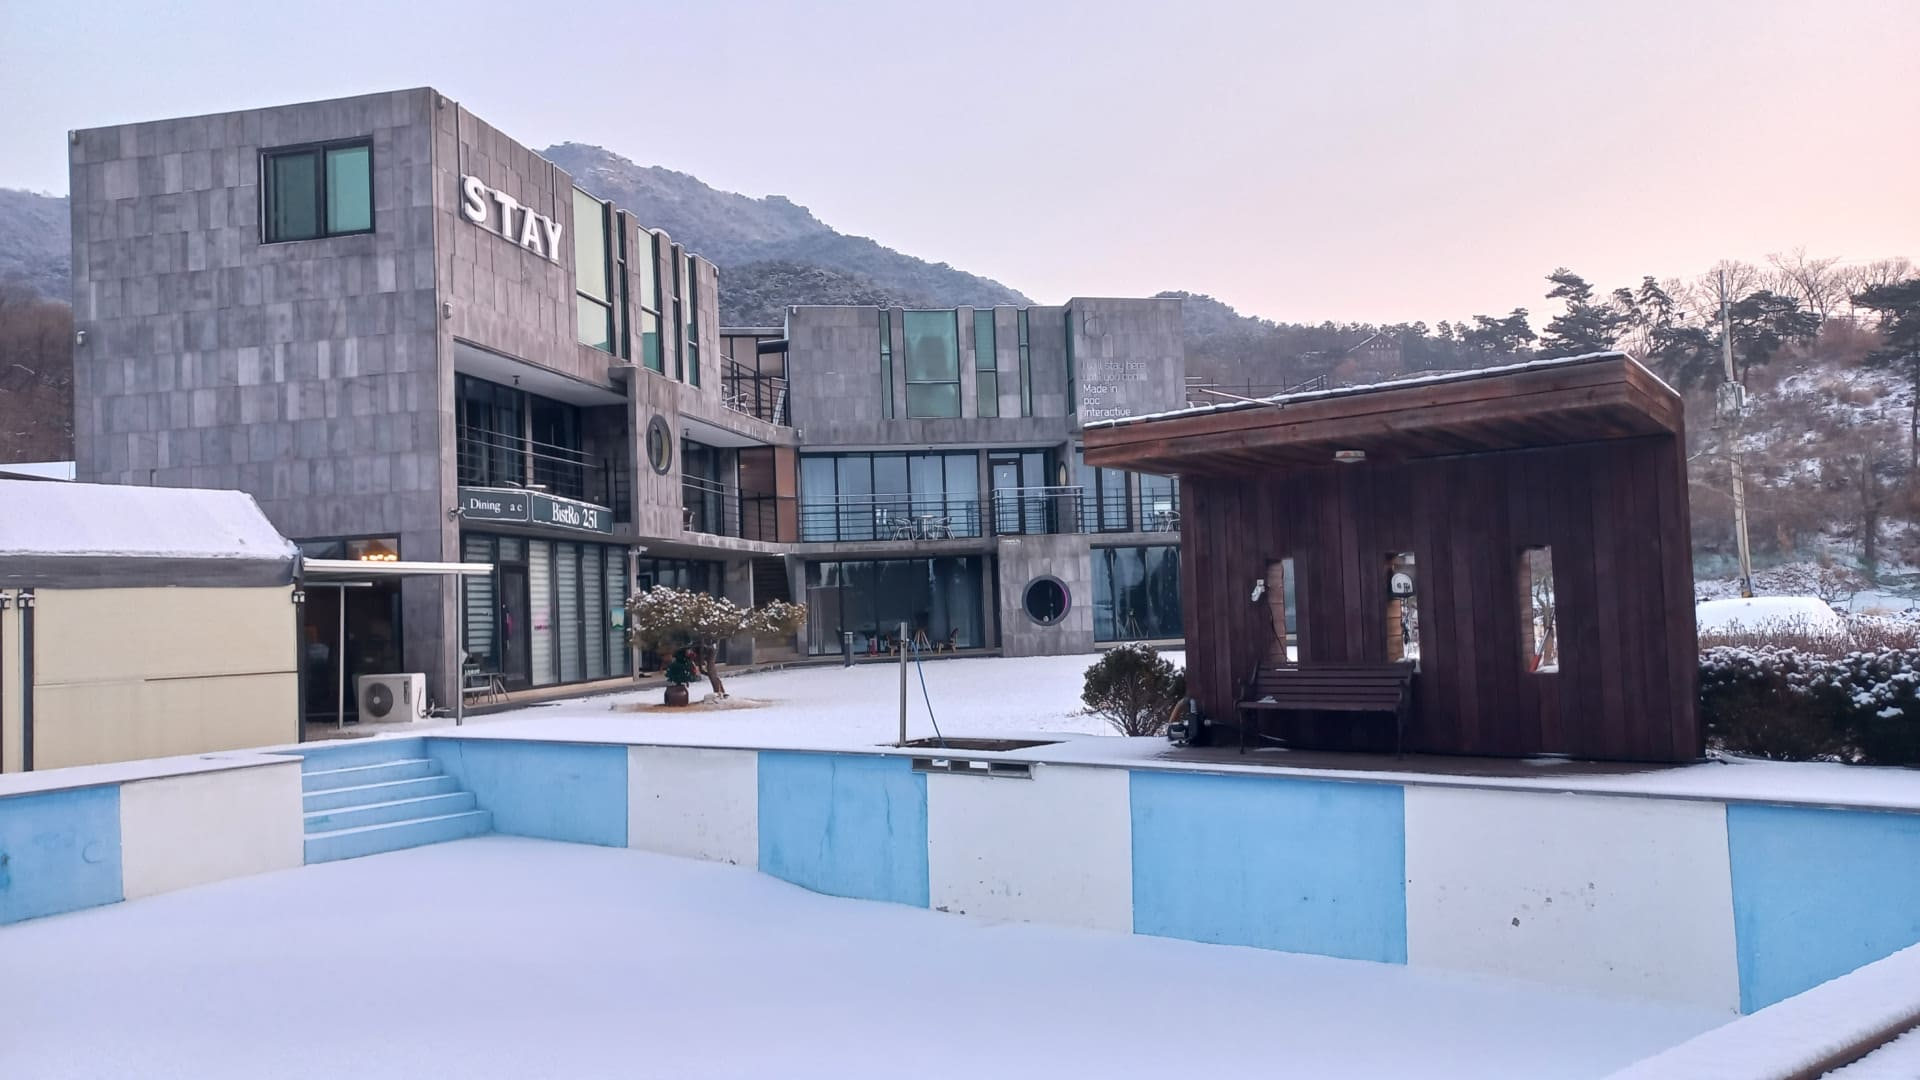
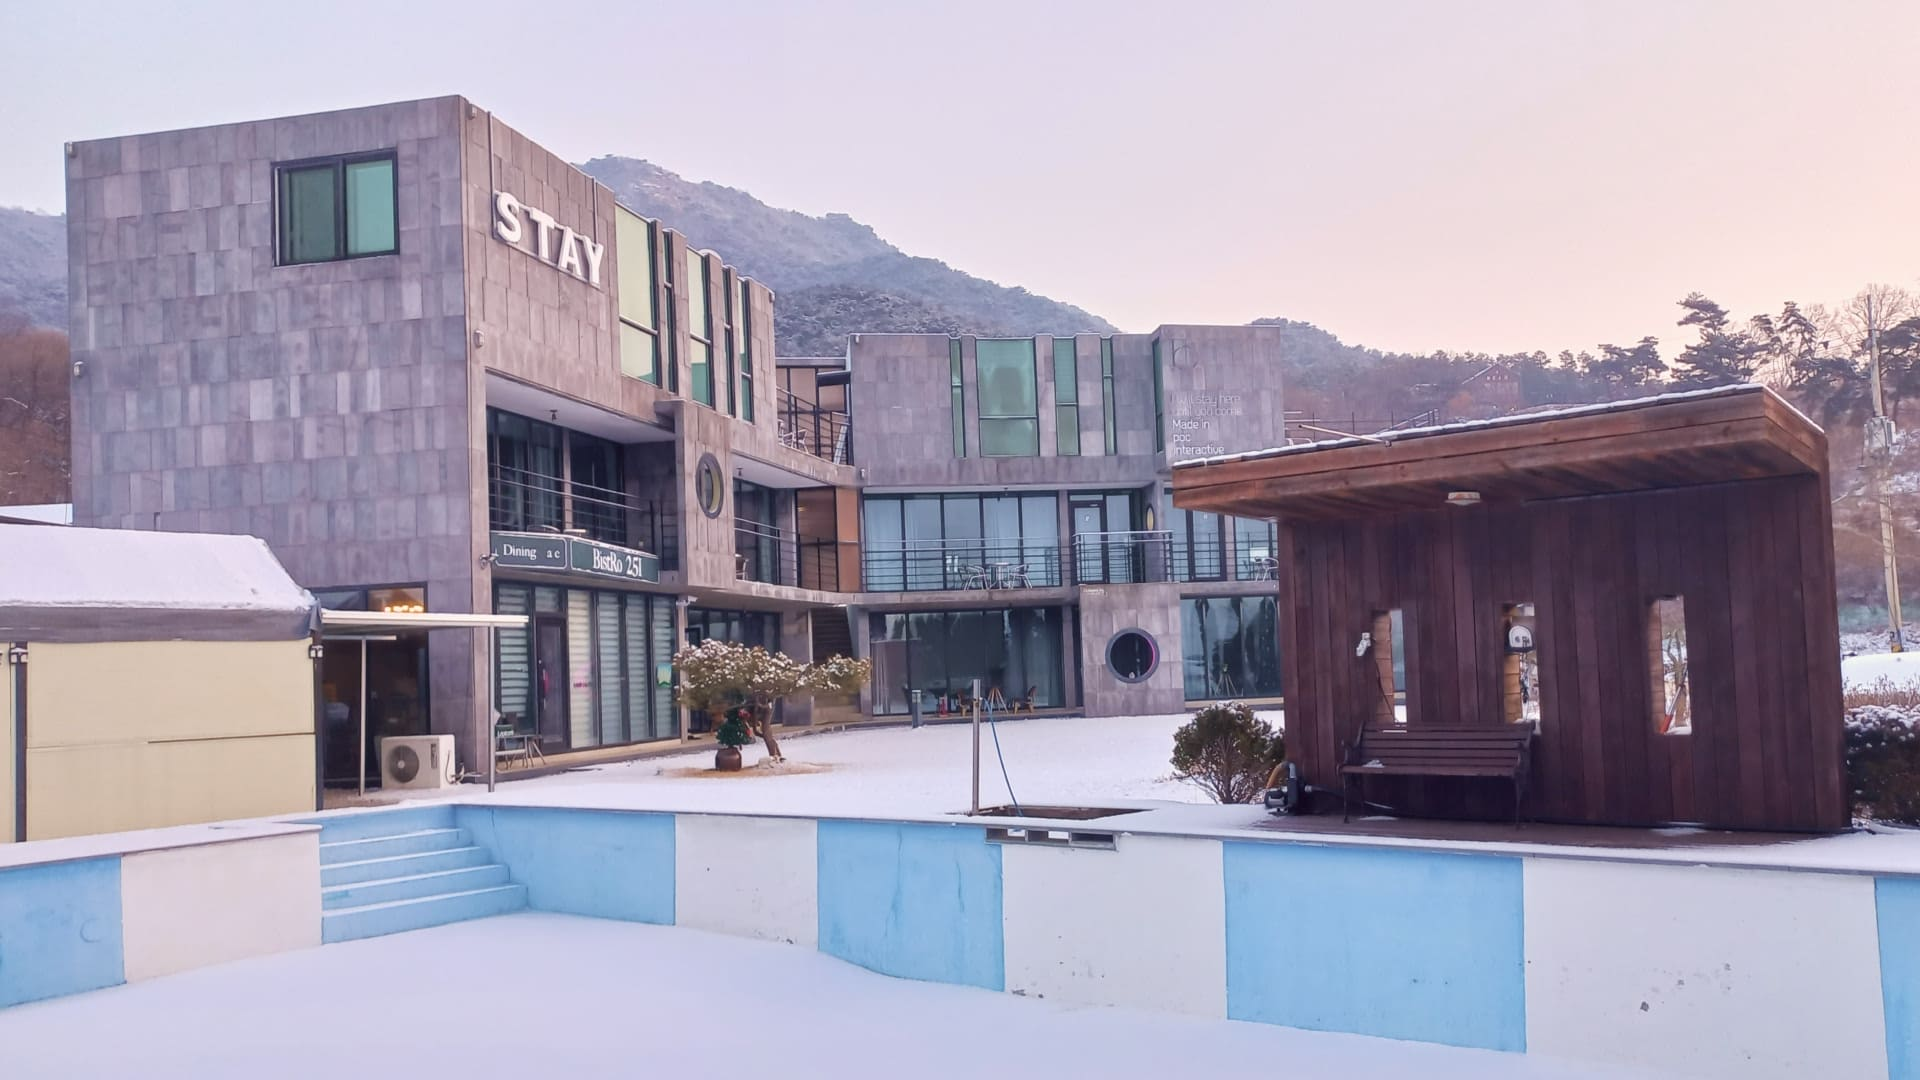
style: 🎨 이미지 업데이트

diff --git a/stayandante/pages/01_home/M_STAY_01.html b/stayandante/pages/01_home/M_STAY_01.html
@@ -1,25 +1,46 @@
 <div class="swiper">
     <div class="swiper-wrapper">
         <div class="swiper-slide">
-            <img src="/images/home/hero_main_01.jpg" alt="" />
+            <picture>
+                <source srcset="/images/home/hero_main_01_mo.jpg" media="(max-width: 767px)">
+                <img src="/images/home/hero_main_01.jpg" alt="">
+            </picture>
         </div>
         <div class="swiper-slide">
-            <img src="/images/home/hero_main_02.jpg" alt="" />
+            <picture>
+                <source srcset="/images/home/hero_main_02_mo.jpg" media="(max-width: 767px)">
+                <img src="/images/home/hero_main_02.jpg" alt="">
+            </picture>
         </div>
         <div class="swiper-slide">
-            <img src="/images/home/hero_main_03.jpg" alt="" />
+            <picture>
+                <source srcset="/images/home/hero_main_03_mo.jpg" media="(max-width: 767px)">
+                <img src="/images/home/hero_main_03.jpg" alt="">
+            </picture>
         </div>
         <div class="swiper-slide">
-            <img src="/images/home/hero_main_04.jpg" alt="" />
+            <picture>
+                <source srcset="/images/home/hero_main_04_mo.jpg" media="(max-width: 767px)">
+                <img src="/images/home/hero_main_04.jpg" alt="">
+            </picture>
         </div>
         <div class="swiper-slide">
-            <img src="/images/home/hero_main_05.jpg" alt="" />
+            <picture>
+                <source srcset="/images/home/hero_main_05_mo.jpg" media="(max-width: 767px)">
+                <img src="/images/home/hero_main_05.jpg" alt="">
+            </picture>
         </div>
         <div class="swiper-slide">
-            <img src="/images/home/hero_main_06.jpg" alt="" />
+            <picture>
+                <source srcset="/images/home/hero_main_06_mo.jpg" media="(max-width: 767px)">
+                <img src="/images/home/hero_main_06.jpg" alt="">
+            </picture>
         </div>
         <div class="swiper-slide">
-            <img src="/images/home/hero_main_07.jpg" alt="" />
+            <picture>
+                <source srcset="/images/home/hero_main_07_mo.jpg" media="(max-width: 767px)">
+                <img src="/images/home/hero_main_07.jpg" alt="">
+            </picture>
         </div>
     </div>
     <div class="tit-wrap dep-1">
@@ -106,7 +127,7 @@
                     <img src="/images/room/card_roomH_01.jpg" alt="" />
                 </div>
                 <h3 class="fs-16 mt-12 mb-8">라르고 <span class="fs-14 txt-700">Largo</span></h3>
-                <p class="fs-14 txt-700">기준 4인 · 최대 10인 | 3층</p>
+                <p class="fs-14 txt-700">기준 4인 · 최대 H 10인, I 8인 | 3층</p>
             </a>
         </div>
         <div class="btn-wrap jc-c">
@@ -168,7 +189,7 @@
             </li>
         </ul>
         <div class="btn-wrap jc-c">
-            <a href="/index.html?linkcd=m0501" class="btn md line txt-white">
+            <a href="/index.html?linkcd=m0501" class="btn md line">
                 소식 더보기
                 <svg class="wh-20">
                     <use href="#dir-chevron-right"></use>

diff --git a/stayandante/css/common.css b/stayandante/css/common.css
@@ -56,6 +56,8 @@ header .gnb .menu-toggle.is-active i:nth-child(4) { width: 0; margin-top: 0; }
 .wrap .lnb,
 .wrap .cont-wrap section,
 footer { padding-left: calc(50vw - 68.2rem); padding-right: calc(50vw - 68.2rem); } 
+.env-pc footer .link[href^="tel:"] { display: block; color: inherit; }
+.env-pc footer .link[href^="tel:"]::after { content: unset; }
 .wrap .tit-wrap.dep-1 { padding-left: calc(50vw - 64rem); padding-right: calc(50vw - 64rem); } 
 
 .wrap main { min-height: 50rem; } 
@@ -88,8 +90,8 @@ footer .footer-inner .btn-wrap { position: absolute; right: 0; top: -5.6rem; }
 /* ==================== 홈 ==================== */
 /* 홈 > 스와이퍼 */
 .wrap main.home .swiper { position: relative; } 
-.wrap main.home .swiper::before { content: ""; display: block; width: 100%; height: 24rem; position: absolute; left: 0; bottom: 0; background: linear-gradient( to bottom, transparent, rgb(var(--bg-100)) 70%, rgb(var(--bg-100)) ); z-index: 2; } 
-.wrap main.home .swiper-wrapper { min-height: 36rem; height: 70vh; } 
+.wrap main.home .swiper::before { content: ""; display: block; width: 100%; height: 18rem; position: absolute; left: 0; bottom: 0; background: linear-gradient( to bottom, transparent, rgb(var(--bg-100)) 50%, rgb(var(--bg-100)) ); z-index: 2; } 
+.wrap main.home .swiper-wrapper { min-height: 36rem; aspect-ratio: 16/9; max-height: 85vh; } 
 .wrap main.home .swiper .swiper-wrapper .swiper-slide { position: relative; overflow: hidden; } 
 .wrap main.home .swiper .swiper-wrapper .swiper-slide img { position: absolute; inset: 0; width: 100%; height: 100%; object-fit: cover; transition: transform 6s ease-in-out 1.5s; pointer-events: none; will-change: transform; backface-visibility: hidden; } 
 .wrap main.home .swiper .swiper-wrapper .swiper-slide.swiper-slide-active img { transform: scale(1.1); } 
@@ -215,6 +217,7 @@ footer { padding-left: 2rem; padding-right: 2rem; }
 .wrap .lnb ul li a { padding: 0; font-size: 1.4rem; } 
 .info-wrap { flex-direction: column; } 
 /* 홈 */
+.wrap main.home .swiper-wrapper { aspect-ratio: 4/5; } 
 .wrap main.home .cont-wrap .home-room .cont { flex-direction: column; } 
 .wrap main.home .cont-wrap .home-arround > .cont > .box > img { aspect-ratio: 2/1; object-position: bottom; }
 .wrap main.home .cont-wrap .home-arround > .cont > .box > .box { background-color: rgba(var(--bg-100), 0.8); height: 100%; }

diff --git a/stayandante/index.html b/stayandante/index.html
@@ -40,7 +40,7 @@
                 document.body.insertAdjacentHTML("afterbegin", svg);
             })();
         </script>
-        <link rel="stylesheet" href="https://cdn.jsdelivr.net/gh/qoalstjd/common@v1.0.512/css/global.css" />
+        <link rel="stylesheet" href="https://cdn.jsdelivr.net/gh/qoalstjd/common@v1.0.522/css/global.css" />
         <link rel="stylesheet" href="https://cdn.jsdelivr.net/gh/qoalstjd/common@v1.0.0/library/swiper-bundle.min.css" />
         <link rel="stylesheet" href="./css/common.css?v=1" />
     </head>
@@ -181,8 +181,8 @@
         <script src="https://cdn.jsdelivr.net/gh/qoalstjd/common@v1.0.0/library/swiper-bundle.min.js"></script>
         <script src="https://cdn.jsdelivr.net/gh/qoalstjd/common@v1.0.497/library/marked.min.js"></script>
         <script src="https://cdn.jsdelivr.net/gh/qoalstjd/common@v1.0.0/js/util.js"></script>
-        <script src="https://cdn.jsdelivr.net/gh/qoalstjd/common@v1.0.514/js/ui.js"></script>
+        <script src="https://cdn.jsdelivr.net/gh/qoalstjd/common@v1.0.522/js/ui.js"></script>
         <script src="/js/common.js"></script>
-        <script src="https://cdn.jsdelivr.net/gh/qoalstjd/common@v1.0.515/js/include.js"></script>
+        <script src="https://cdn.jsdelivr.net/gh/qoalstjd/common@v1.0.522/js/include.js"></script>
     </body>
 </html>

diff --git a/stayandante/pages/04_book/M_STAY_04.html b/stayandante/pages/04_book/M_STAY_04.html
@@ -227,7 +227,7 @@
                     <tbody class="ta-c">
                         <tr>
                             <th>H</th>
-                            <td rowspan="2">기준 4인 · 최대 10인</td>
+                            <td rowspan="2">기준 4인 · 최대 H 10인, I 8인</td>
                             <td>190,000원</td>
                             <td>230,000원</td>
                         </tr>

diff --git a/stayandante/pages/03_room/M_STAY_03_04.html b/stayandante/pages/03_room/M_STAY_03_04.html
@@ -107,7 +107,7 @@
                         <tbody>
                             <tr>
                                 <th>인원</th>
-                                <td>기준 4인 · 최대 (H : 10인 / I : 8인)</td>
+                                <td>기준 4인 · 최대 H 10인, I 8인</td>
                             </tr>
                             <tr>
                                 <th>위치</th>
